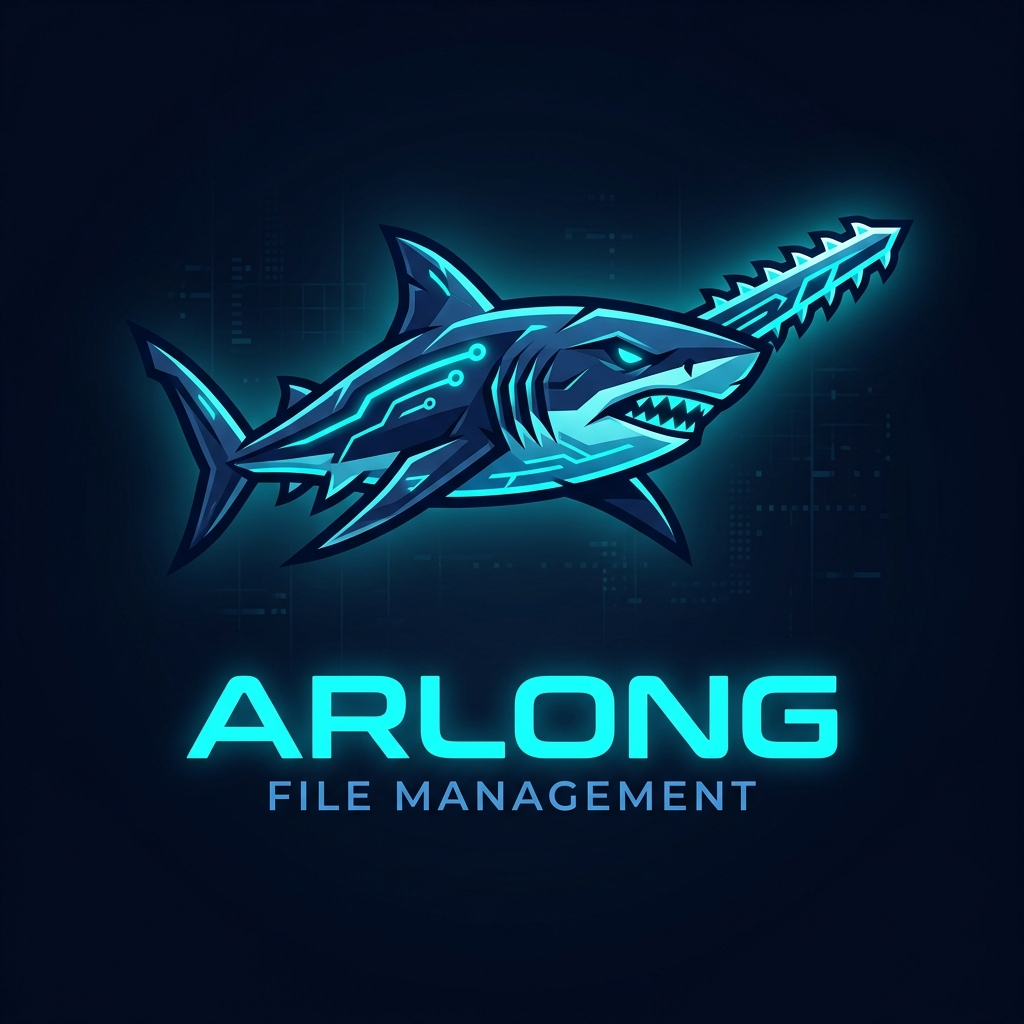
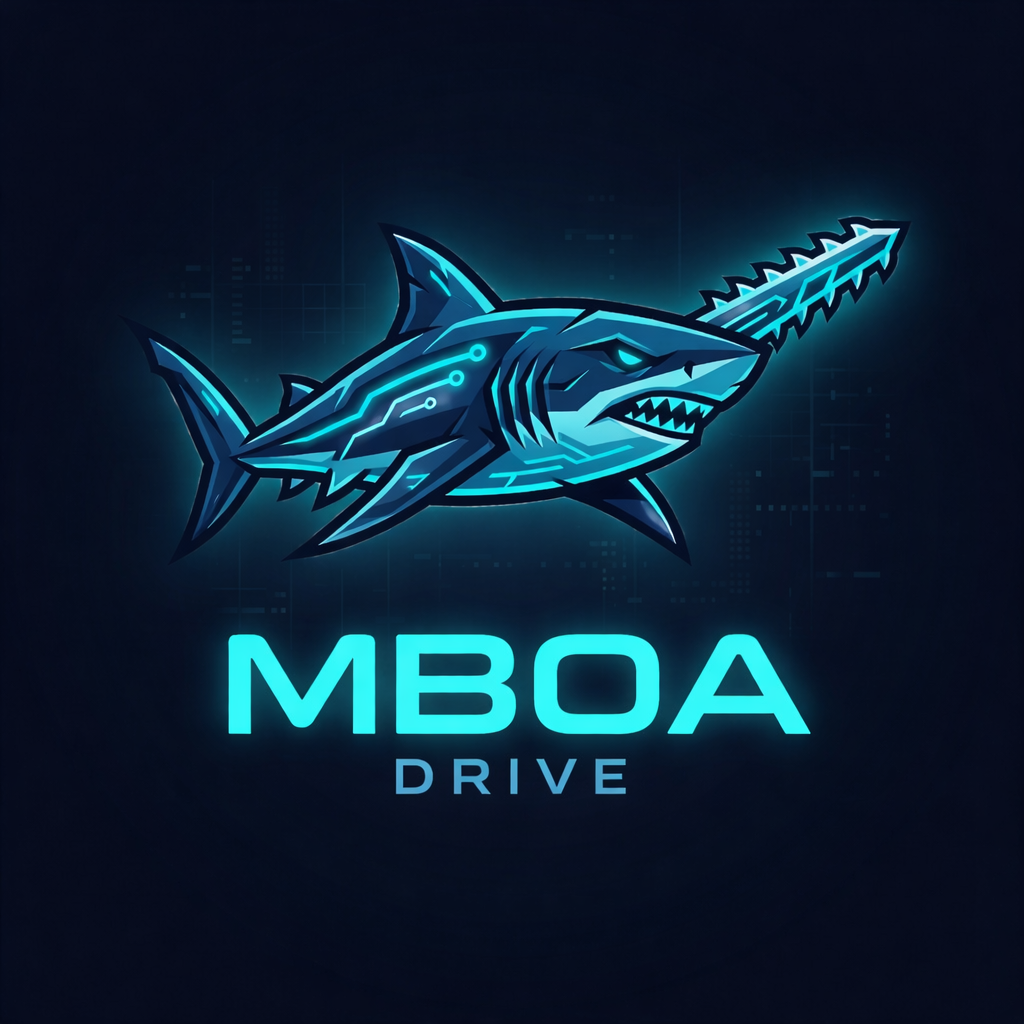
Mboa Drive

Changed region(s): [[0.1562, 0.5938, 0.8438, 0.8125], [0.125, 0.2188, 0.875, 0.5625]]

diff --git a/frontend/web/src/pages/Home.tsx b/frontend/web/src/pages/Home.tsx
@@ -104,8 +104,8 @@ const Home: React.FC = () => {
       <nav className="home-nav">
         <div className="home-nav-inner">
           <div className="home-nav-brand">
-            <img src="/logo.png" alt="Arlong" className="home-nav-logo" />
-            <span className="home-nav-name">ARLONG</span>
+            <img src="/logo.png" alt="Mboa Drive" className="home-nav-logo" />
+            <span className="home-nav-name">Mboa Drive</span>
           </div>
           <div className="home-nav-links">
             <Link to="/privacy" className="home-nav-link">Confidentialité</Link>
@@ -117,7 +117,7 @@ const Home: React.FC = () => {
 
       {/* ===== HERO ===== */}
       <section className="home-hero" ref={heroRef}>
-        <img src="/logo.png" alt="Arlong Logo Central" className="home-hero-logo" />
+        <img src="/logo.png" alt="Mboa Drive Logo Central" className="home-hero-logo" />
         <div className="home-hero-badge">
           <span className="home-hero-badge-dot"></span>
           Sécurisé · Chiffré · Open Source
@@ -127,7 +127,7 @@ const Home: React.FC = () => {
           <span className="home-hero-gradient">Protégées. Partout.</span>
         </h1>
         <p className="home-hero-subtitle">
-          ARLONG est la plateforme de gestion documentaire qui chiffre vos fichiers côté client
+          Mboa Drive est la plateforme de gestion documentaire qui chiffre vos fichiers côté client
           et les synchronise sur votre espace Google Drive personnel — sans jamais y accéder.
         </p>
         <div className="home-hero-actions">
@@ -187,7 +187,7 @@ const Home: React.FC = () => {
 
       {/* ===== FOOTER ===== */}
       <footer className="home-footer">
-        <span>© 2025 ARLONG — Tous droits réservés</span>
+        <span>© 2026 Mboa Drive — Tous droits réservés</span>
         <div className="home-footer-links">
           <Link to="/privacy">Politique de confidentialité</Link>
           <Link to="/terms">Conditions d'utilisation</Link>

diff --git a/frontend/web/src/pages/Legal/Privacy.tsx b/frontend/web/src/pages/Legal/Privacy.tsx
@@ -4,11 +4,11 @@ import { Link } from 'react-router-dom';
 const Privacy: React.FC = () => {
   return (
     <div style={{ maxWidth: 800, margin: '40px auto', padding: '0 24px', fontFamily: 'system-ui, sans-serif', color: '#e0e0e0', background: '#0d1117', minHeight: '100vh' }}>
-      <h1 style={{ fontSize: 28, marginBottom: 32, color: '#fff' }}>🔒 Politique de Confidentialité — ARLONG</h1>
+      <h1 style={{ fontSize: 28, marginBottom: 32, color: '#fff' }}>🔒 Politique de Confidentialité — Mboa Drive</h1>
       <p><strong>Dernière mise à jour :</strong> 9 avril 2026</p>
 
       <h2 style={{ marginTop: 24 }}>1. Données collectées</h2>
-      <p>ARLONG collecte uniquement les données nécessaires à son fonctionnement :</p>
+      <p>Mboa Drive collecte uniquement les données nécessaires à son fonctionnement :</p>
       <ul>
         <li>Votre adresse e-mail et nom (via Google OAuth) pour l'authentification.</li>
         <li>Les fichiers et documents que vous choisissez de stocker via Google Drive.</li>
@@ -23,7 +23,7 @@ const Privacy: React.FC = () => {
       </ul>
 
       <h2 style={{ marginTop: 24 }}>3. Partage des données</h2>
-      <p>ARLONG ne vend, ne loue et ne partage aucune donnée personnelle avec des tiers. Vos documents restent strictement sur votre propre compte Google Drive.</p>
+      <p>Mboa Drive ne vend, ne loue et ne partage aucune donnée personnelle avec des tiers. Vos documents restent strictement sur votre propre compte Google Drive.</p>
 
       <h2 style={{ marginTop: 24 }}>4. Sécurité</h2>
       <p>Les connexions sont sécurisées via HTTPS et l'authentification est gérée par le protocole standard OAuth 2.0 de Google. Les tokens d'accès sont stockés de manière sécurisée côté serveur.</p>

diff --git a/frontend/web/src/pages/Legal/Terms.tsx b/frontend/web/src/pages/Legal/Terms.tsx
@@ -12,7 +12,7 @@ const Terms: React.FC = () => {
       background: '#0d1117',
       minHeight: '100vh'
     }}>
-      <h1 style={{ fontSize: 28, color: '#fff', marginBottom: 24 }}>📜 Conditions d'utilisation — ARLONG</h1>
+      <h1 style={{ fontSize: 28, color: '#fff', marginBottom: 24 }}>📜 Conditions d'utilisation — Mboa Drive</h1>
       <p><strong>Dernière mise à jour :</strong> 9 avril 2026</p>
       <p>Cette application a été développée dans le cadre d'un projet scolaire. Les points suivants s'appliquent :</p>
       <ul>
@@ -21,7 +21,7 @@ const Terms: React.FC = () => {
         <li>Les documents stockés restent la propriété exclusive de l'utilisateur et sont hébergés sur son compte Google Drive.</li>
         <li>Le code source est disponible publiquement sous licence MIT dans le dépôt GitHub du projet.</li>
       </ul>
-      <p>En utilisant ARLONG, vous acceptez ces conditions.</p>
+      <p>En utilisant Mboa Drive, vous acceptez ces conditions.</p>
       <p>Pour toute question, contactez <a href="mailto:ravel.nghomsi@facsciences-uy1.cm" style={{ color: '#58a6ff' }}>ravel.nghomsi@facsciences-uy1.cm</a>.</p>
       <div style={{ marginTop: 40, paddingTop: 20, borderTop: '1px solid #30363d' }}>
         <Link to="/" style={{ color: '#58a6ff' }}>← Retour à l'accueil</Link>

diff --git a/frontend/desktop/src/contexts/AuthContext.tsx b/frontend/desktop/src/contexts/AuthContext.tsx
@@ -31,7 +31,7 @@ export const AuthProvider = ({ children }: { children: ReactNode }) => {
       // On commence le timer pour le splash screen
       const timer = new Promise(resolve => setTimeout(resolve, 1500));
       
-      const token = localStorage.getItem('arlong_token');
+      const token = localStorage.getItem('mboadrive_token');
       if (token) {
         try {
           const res = await api.get('/auth/me');
@@ -39,7 +39,7 @@ export const AuthProvider = ({ children }: { children: ReactNode }) => {
             setUser(res.data.data);
           }
         } catch (error) {
-          localStorage.removeItem('arlong_token');
+          localStorage.removeItem('mboadrive_token');
         }
       }
       
@@ -51,12 +51,12 @@ export const AuthProvider = ({ children }: { children: ReactNode }) => {
   }, []);
 
   const login = (token: string, userData: User) => {
-    localStorage.setItem('arlong_token', token);
+    localStorage.setItem('mboadrive_token', token);
     setUser(userData);
   };
 
   const logout = () => {
-    localStorage.removeItem('arlong_token');
+    localStorage.removeItem('mboadrive_token');
     setUser(null);
   };
 

diff --git a/frontend/mobile/src/contexts/AuthContext.tsx b/frontend/mobile/src/contexts/AuthContext.tsx
@@ -31,7 +31,7 @@ export const AuthProvider = ({ children }: { children: ReactNode }) => {
       // On commence le timer pour le splash screen
       const timer = new Promise(resolve => setTimeout(resolve, 1500));
       
-      const token = localStorage.getItem('arlong_token');
+      const token = localStorage.getItem('mboadrive_token');
       if (token) {
         try {
           const res = await api.get('/auth/me');
@@ -39,7 +39,7 @@ export const AuthProvider = ({ children }: { children: ReactNode }) => {
             setUser(res.data.data);
           }
         } catch (error) {
-          localStorage.removeItem('arlong_token');
+          localStorage.removeItem('mboadrive_token');
         }
       }
       
@@ -51,12 +51,12 @@ export const AuthProvider = ({ children }: { children: ReactNode }) => {
   }, []);
 
   const login = (token: string, userData: User) => {
-    localStorage.setItem('arlong_token', token);
+    localStorage.setItem('mboadrive_token', token);
     setUser(userData);
   };
 
   const logout = () => {
-    localStorage.removeItem('arlong_token');
+    localStorage.removeItem('mboadrive_token');
     setUser(null);
   };
 

diff --git a/frontend/web/src/contexts/AuthContext.tsx b/frontend/web/src/contexts/AuthContext.tsx
@@ -31,7 +31,7 @@ export const AuthProvider = ({ children }: { children: ReactNode }) => {
       // On commence le timer pour le splash screen
       const timer = new Promise(resolve => setTimeout(resolve, 1500));
       
-      const token = localStorage.getItem('arlong_token');
+      const token = localStorage.getItem('mboadrive_token');
       if (token) {
         try {
           const res = await api.get('/auth/me');
@@ -39,7 +39,7 @@ export const AuthProvider = ({ children }: { children: ReactNode }) => {
             setUser(res.data.data);
           }
         } catch (error) {
-          localStorage.removeItem('arlong_token');
+          localStorage.removeItem('mboadrive_token');
         }
       }
       
@@ -51,12 +51,12 @@ export const AuthProvider = ({ children }: { children: ReactNode }) => {
   }, []);
 
   const login = (token: string, userData: User) => {
-    localStorage.setItem('arlong_token', token);
+    localStorage.setItem('mboadrive_token', token);
     setUser(userData);
   };
 
   const logout = () => {
-    localStorage.removeItem('arlong_token');
+    localStorage.removeItem('mboadrive_token');
     setUser(null);
   };
 

diff --git a/frontend/web/src/components/Layout/AppLayout.tsx b/frontend/web/src/components/Layout/AppLayout.tsx
@@ -23,7 +23,7 @@ const AppLayout = ({ children }: AppLayoutProps) => {
     if (location.pathname.includes('/dashboard')) return 'Tableau de bord';
     if (location.pathname.includes('/espaces')) return 'Espaces de travail';
     if (location.pathname.includes('/settings')) return 'Paramètres';
-    return 'Arlong';
+    return 'Mboa Drive';
   };
 
   const linkDrive = async () => {
@@ -37,7 +37,7 @@ const AppLayout = ({ children }: AppLayoutProps) => {
         
         const popup = window.open(
           res.data.url, 
-          'ArlongDriveAuth', 
+          'MboaDriveAuth', 
           `width=${width},height=${height},top=${top},left=${left}`
         );
 
@@ -67,8 +67,8 @@ const AppLayout = ({ children }: AppLayoutProps) => {
       {/* Sidebar / Bottom Nav */}
       <aside className="app-sidebar">
         <div className="sidebar-header">
-          <img src="/logo.png" alt="Arlong" className="sidebar-logo" />
-          <span>Arlong</span>
+          <img src="/logo.png" alt="Mboa Drive" className="sidebar-logo" />
+          <span>Mboa Drive</span>
         </div>
         
         <nav className="sidebar-nav">

diff --git a/frontend/desktop/src/pages/Dashboard/Dashboard.tsx b/frontend/desktop/src/pages/Dashboard/Dashboard.tsx
@@ -60,7 +60,7 @@ const Dashboard = () => {
   // Initialisation file d'attente hors-ligne
   useEffect(() => {
     const loadQueue = async () => {
-      const queue = await localforage.getItem<OfflineFile[]>('arlong_offline_docs') || [];
+      const queue = await localforage.getItem<OfflineFile[]>('mboadrive_offline_docs') || [];
       setOfflineQueue(queue);
     };
     loadQueue();
@@ -108,7 +108,7 @@ const Dashboard = () => {
       }
     }
 
-    await localforage.setItem('arlong_offline_docs', newQueue);
+    await localforage.setItem('mboadrive_offline_docs', newQueue);
     setOfflineQueue(newQueue);
     setIsSyncing(false);
   };
@@ -221,7 +221,7 @@ const Dashboard = () => {
         };
         const updatedQueue = [...offlineQueue, offlineFile];
         setOfflineQueue(updatedQueue);
-        await localforage.setItem('arlong_offline_docs', updatedQueue);
+        await localforage.setItem('mboadrive_offline_docs', updatedQueue);
         alert(`☁ Mode Hors-ligne : "${file.name}" enregistré localement. Il sera synchronisé dès le retour d'internet.`);
       } else {
         // EN LIGNE: Upload direct

diff --git a/frontend/web/src/pages/Dashboard/Dashboard.tsx b/frontend/web/src/pages/Dashboard/Dashboard.tsx
@@ -60,7 +60,7 @@ const Dashboard = () => {
   // Initialisation file d'attente hors-ligne
   useEffect(() => {
     const loadQueue = async () => {
-      const queue = await localforage.getItem<OfflineFile[]>('arlong_offline_docs') || [];
+      const queue = await localforage.getItem<OfflineFile[]>('mboadrive_offline_docs') || [];
       setOfflineQueue(queue);
     };
     loadQueue();
@@ -108,7 +108,7 @@ const Dashboard = () => {
       }
     }
 
-    await localforage.setItem('arlong_offline_docs', newQueue);
+    await localforage.setItem('mboadrive_offline_docs', newQueue);
     setOfflineQueue(newQueue);
     setIsSyncing(false);
   };
@@ -221,7 +221,7 @@ const Dashboard = () => {
         };
         const updatedQueue = [...offlineQueue, offlineFile];
         setOfflineQueue(updatedQueue);
-        await localforage.setItem('arlong_offline_docs', updatedQueue);
+        await localforage.setItem('mboadrive_offline_docs', updatedQueue);
         alert(`☁ Mode Hors-ligne : "${file.name}" enregistré localement. Il sera synchronisé dès le retour d'internet.`);
       } else {
         // EN LIGNE: Upload direct

diff --git a/frontend/mobile/src/pages/Dashboard/Dashboard.tsx b/frontend/mobile/src/pages/Dashboard/Dashboard.tsx
@@ -106,7 +106,7 @@ const Dashboard = () => {
 
   useEffect(() => {
     const loadQueue = async () => {
-      const queue = await localforage.getItem<OfflineFile[]>('arlong_offline_docs') || [];
+      const queue = await localforage.getItem<OfflineFile[]>('mboadrive_offline_docs') || [];
       setOfflineQueue(queue);
     };
     loadQueue();
@@ -176,7 +176,7 @@ const Dashboard = () => {
       }
     }
 
-    await localforage.setItem('arlong_offline_docs', newQueue);
+    await localforage.setItem('mboadrive_offline_docs', newQueue);
     setOfflineQueue(newQueue);
     setIsSyncing(false);
   };
@@ -318,7 +318,8 @@ const Dashboard = () => {
         };
         const updatedQueue = [...offlineQueue, offlineFile];
         setOfflineQueue(updatedQueue);
-        await localforage.setItem('arlong_offline_docs', updatedQueue);
+        await localforage.setItem('mboadrive_offline_docs', updatedQueue);
+        alert(`💾 Mode Hors-ligne : "${file.name}" enregistré localement.`);
       } else {
         try {
           const formData = new FormData();

diff --git a/frontend/desktop/src/api/client.ts b/frontend/desktop/src/api/client.ts
@@ -13,7 +13,7 @@ const api = axios.create({
 // Intercepteur pour injecter le token JWT
 api.interceptors.request.use(
   (config) => {
-    const token = localStorage.getItem('arlong_token');
+    const token = localStorage.getItem('mboadrive_token');
     if (token && config.headers) {
       config.headers.Authorization = `Bearer ${token}`;
     }
@@ -27,7 +27,7 @@ api.interceptors.response.use(
   (response) => response,
   (error) => {
     if (error.response?.status === 401) {
-      localStorage.removeItem('arlong_token');
+      localStorage.removeItem('mboadrive_token');
       // Rediriger vers le login si on n'y est pas
       if (window.location.pathname !== '/login' && window.location.pathname !== '/register') {
         window.location.href = '/login';

diff --git a/frontend/mobile/src/api/client.ts b/frontend/mobile/src/api/client.ts
@@ -13,7 +13,7 @@ const api = axios.create({
 // Intercepteur pour injecter le token JWT
 api.interceptors.request.use(
   (config) => {
-    const token = localStorage.getItem('arlong_token');
+    const token = localStorage.getItem('mboadrive_token');
     if (token && config.headers) {
       config.headers.Authorization = `Bearer ${token}`;
     }
@@ -27,7 +27,7 @@ api.interceptors.response.use(
   (response) => response,
   (error) => {
     if (error.response?.status === 401) {
-      localStorage.removeItem('arlong_token');
+      localStorage.removeItem('mboadrive_token');
       // Rediriger vers le login si on n'y est pas
       if (window.location.pathname !== '/login' && window.location.pathname !== '/register') {
         window.location.href = '/login';
